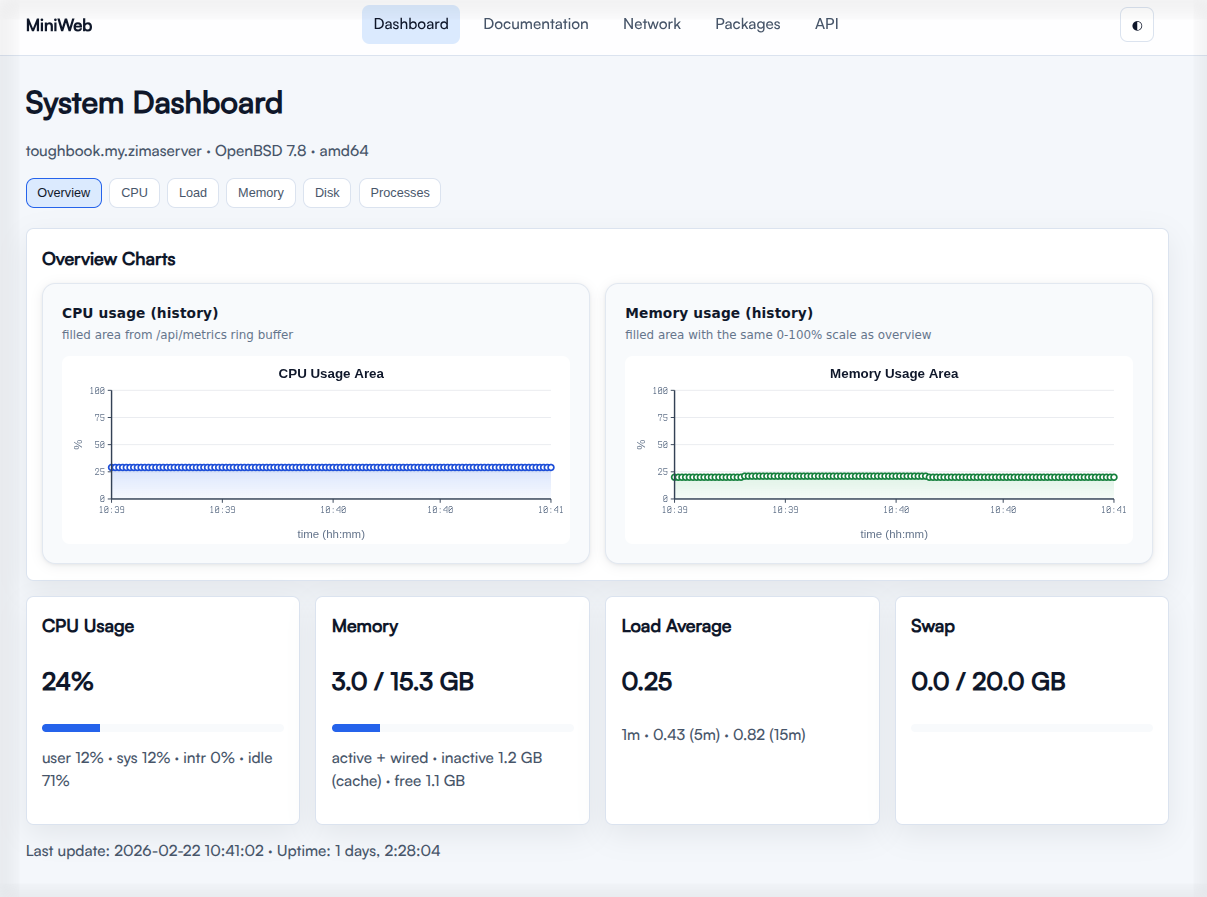
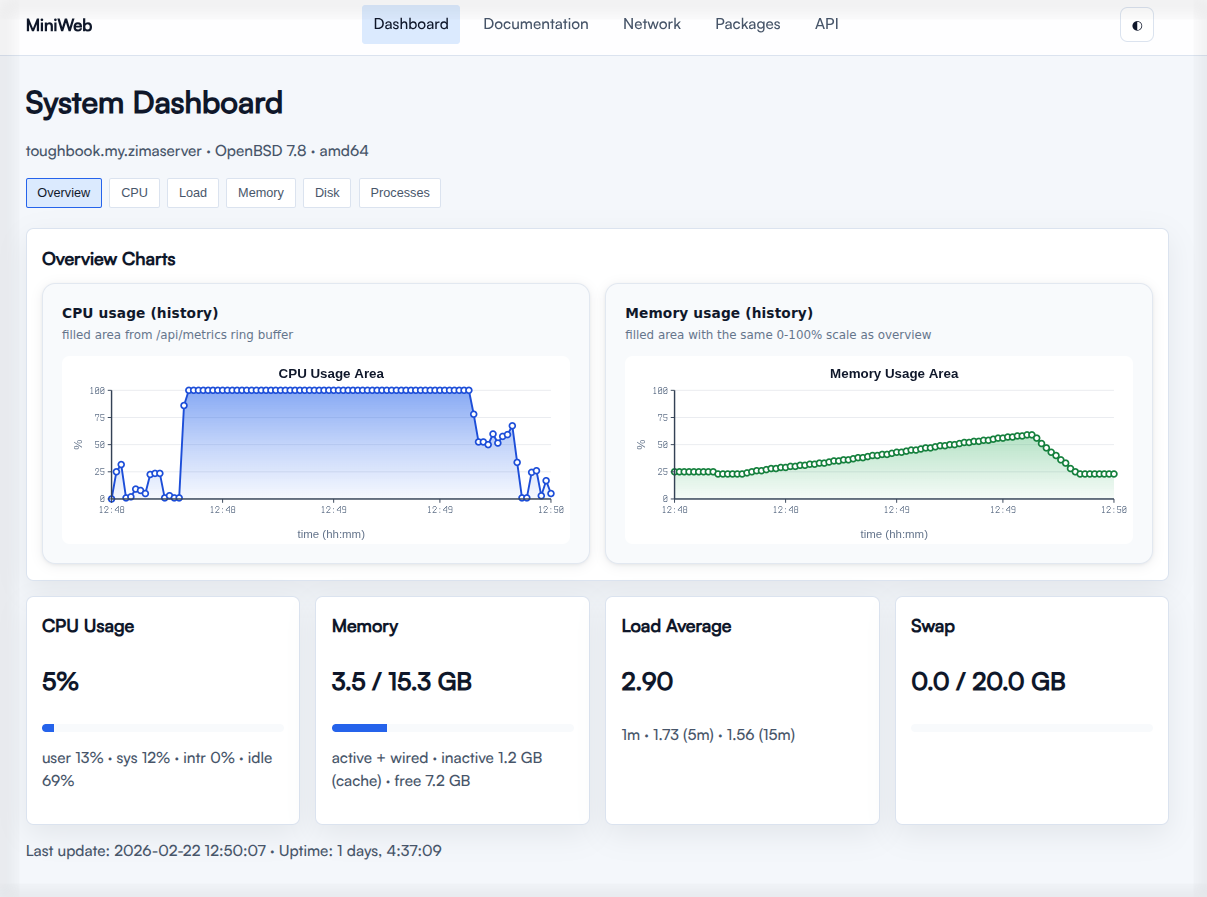
=== FE: dashboard refinement
modified:   docs/screenshot.png
	modified:   static/css/custom.css
	modified:   templates/dashboard_extra_head.html
	modified:   templates/dashboard_extra_js.html

diff --git a/static/benchmark.html b/static/benchmark.html
@@ -156,14 +156,14 @@
       <!-- ===== SUMMARY ===== -->
       <section class="panel overall-section">
         <h1>Benchmark Report</h1>
-        <p class="meta">Generated: 2026-02-22 00:34:32 &nbsp;·&nbsp; Base URL: <code>http://localhost:3000</code> &nbsp;·&nbsp; Duration: 30s &nbsp;·&nbsp; Threads: 4</p>
+        <p class="meta">Generated: 2026-02-22 12:00:41 &nbsp;·&nbsp; Base URL: <code>http://localhost:3000</code> &nbsp;·&nbsp; Duration: 15s &nbsp;·&nbsp; Threads: 4</p>
 
         <div class="benchmark-grid">
-          <article class="panel stat-card"><h3>Peak throughput</h3><p>27424.40 req/s</p></article>
-          <article class="panel stat-card"><h3>Avg throughput</h3><p>5596.4 req/s</p></article>
-          <article class="panel stat-card"><h3>Best avg latency</h3><p>0.327 ms</p></article>
-          <article class="panel stat-card"><h3>Worst max latency</h3><p>2000.000 ms</p></article>
-          <article class="panel stat-card"><h3>Grand avg latency</h3><p>251.13 ms</p></article>
+          <article class="panel stat-card"><h3>Peak throughput</h3><p>26543.16 req/s</p></article>
+          <article class="panel stat-card"><h3>Avg throughput</h3><p>7377.6 req/s</p></article>
+          <article class="panel stat-card"><h3>Best avg latency</h3><p>0.276 ms</p></article>
+          <article class="panel stat-card"><h3>Worst max latency</h3><p>1990.000 ms</p></article>
+          <article class="panel stat-card"><h3>Grand avg latency</h3><p>240.33 ms</p></article>
         </div>
 
       </section>
@@ -199,10 +199,10 @@
               </tr>
             </thead>
             <tbody>
-<tr><td>8</td><td>23571.8</td><td>0.33</td><td>20.67</td><td>232.900</td><td>709565</td><td class="http-ok">200</td><td>OK</td></tr>
-<tr><td>16</td><td>11625.8</td><td>2.97</td><td>341.10</td><td>114.880</td><td>349369</td><td class="http-ok">200</td><td>OK</td></tr>
-<tr><td>32</td><td>16030.2</td><td>1.70</td><td>67.66</td><td>158.400</td><td>481825</td><td class="http-ok">200</td><td>OK</td></tr>
-<tr><td>64</td><td>15279.4</td><td>3.50</td><td>56.19</td><td>150.980</td><td>459400</td><td class="http-ok">200</td><td>OK</td></tr>
+<tr><td>8</td><td>22837.2</td><td>0.35</td><td>26.22</td><td>225.650</td><td>344989</td><td class="http-ok">200</td><td>OK</td></tr>
+<tr><td>16</td><td>10225.0</td><td>1.46</td><td>60.92</td><td>101.040</td><td>153916</td><td class="http-ok">200</td><td>OK</td></tr>
+<tr><td>32</td><td>15347.7</td><td>1.85</td><td>95.92</td><td>151.650</td><td>231267</td><td class="http-ok">200</td><td>OK</td></tr>
+<tr><td>64</td><td>16212.3</td><td>3.28</td><td>75.65</td><td>160.190</td><td>244594</td><td class="http-ok">200</td><td>OK</td></tr>
             </tbody>
           </table>
         </div>
@@ -228,10 +228,10 @@
               </tr>
             </thead>
             <tbody>
-<tr><td>8</td><td>16009.5</td><td>0.47</td><td>20.81</td><td>89.540</td><td>481915</td><td class="http-ok">200</td><td>OK</td></tr>
-<tr><td>16</td><td>16862.8</td><td>0.88</td><td>29.70</td><td>94.310</td><td>507615</td><td class="http-ok">200</td><td>OK</td></tr>
-<tr><td>32</td><td>13136.1</td><td>2.25</td><td>26.42</td><td>73.470</td><td>394700</td><td class="http-ok">200</td><td>OK</td></tr>
-<tr><td>64</td><td>27424.4</td><td>2.15</td><td>35.65</td><td>153.380</td><td>823954</td><td class="http-ok">200</td><td>OK</td></tr>
+<tr><td>8</td><td>16873.6</td><td>0.44</td><td>10.54</td><td>94.390</td><td>254807</td><td class="http-ok">200</td><td>OK</td></tr>
+<tr><td>16</td><td>13041.7</td><td>1.13</td><td>18.30</td><td>72.950</td><td>195924</td><td class="http-ok">200</td><td>OK</td></tr>
+<tr><td>32</td><td>16188.2</td><td>1.86</td><td>31.22</td><td>90.550</td><td>243070</td><td class="http-ok">200</td><td>OK</td></tr>
+<tr><td>64</td><td>16450.5</td><td>3.58</td><td>35.21</td><td>92.020</td><td>247727</td><td class="http-ok">200</td><td>OK</td></tr>
             </tbody>
           </table>
         </div>
@@ -257,10 +257,10 @@
               </tr>
             </thead>
             <tbody>
-<tr><td>8</td><td>12105.0</td><td>0.62</td><td>17.47</td><td>17.290</td><td>364407</td><td class="http-ok">200</td><td>OK</td></tr>
-<tr><td>16</td><td>15406.6</td><td>0.96</td><td>30.10</td><td>22.010</td><td>462882</td><td class="http-ok">200</td><td>OK</td></tr>
-<tr><td>32</td><td>17009.6</td><td>1.72</td><td>19.94</td><td>24.300</td><td>510901</td><td class="http-ok">200</td><td>OK</td></tr>
-<tr><td>64</td><td>27374.3</td><td>2.16</td><td>35.75</td><td>39.100</td><td>822418</td><td class="http-ok">200</td><td>OK</td></tr>
+<tr><td>8</td><td>26384.2</td><td>0.28</td><td>9.03</td><td>37.690</td><td>398441</td><td class="http-ok">200</td><td>OK</td></tr>
+<tr><td>16</td><td>13065.1</td><td>1.13</td><td>29.64</td><td>18.660</td><td>196356</td><td class="http-ok">200</td><td>OK</td></tr>
+<tr><td>32</td><td>15859.3</td><td>1.86</td><td>25.51</td><td>22.660</td><td>238256</td><td class="http-ok">200</td><td>OK</td></tr>
+<tr><td>64</td><td>13340.2</td><td>4.49</td><td>67.91</td><td>19.060</td><td>201370</td><td class="http-ok">200</td><td>OK</td></tr>
             </tbody>
           </table>
         </div>
@@ -286,10 +286,10 @@
               </tr>
             </thead>
             <tbody>
-<tr><td>8</td><td>10788.6</td><td>0.70</td><td>21.02</td><td>4.550</td><td>324764</td><td class="http-ok">200</td><td>OK</td></tr>
-<tr><td>16</td><td>12663.1</td><td>1.21</td><td>83.27</td><td>5.340</td><td>380234</td><td class="http-ok">200</td><td>OK</td></tr>
-<tr><td>32</td><td>14743.6</td><td>2.03</td><td>36.05</td><td>6.210</td><td>442950</td><td class="http-ok">200</td><td>OK</td></tr>
-<tr><td>64</td><td>17774.0</td><td>3.27</td><td>38.60</td><td>7.490</td><td>535025</td><td class="http-ok">200</td><td>OK</td></tr>
+<tr><td>8</td><td>26543.2</td><td>0.28</td><td>6.91</td><td>11.190</td><td>400785</td><td class="http-ok">200</td><td>OK</td></tr>
+<tr><td>16</td><td>13004.6</td><td>1.13</td><td>15.96</td><td>5.480</td><td>195152</td><td class="http-ok">200</td><td>OK</td></tr>
+<tr><td>32</td><td>17092.5</td><td>1.72</td><td>20.90</td><td>7.200</td><td>256785</td><td class="http-ok">200</td><td>OK</td></tr>
+<tr><td>64</td><td>18586.4</td><td>3.12</td><td>46.18</td><td>7.830</td><td>280130</td><td class="http-ok">200</td><td>OK</td></tr>
             </tbody>
           </table>
         </div>
@@ -315,10 +315,10 @@
               </tr>
             </thead>
             <tbody>
-<tr><td>8</td><td>5085.7</td><td>1.55</td><td>21.55</td><td>87.690</td><td>152911</td><td class="http-ok">200</td><td>OK</td></tr>
-<tr><td>16</td><td>5915.4</td><td>2.65</td><td>28.32</td><td>102.000</td><td>177872</td><td class="http-ok">200</td><td>OK</td></tr>
-<tr><td>32</td><td>6052.0</td><td>5.20</td><td>33.11</td><td>104.350</td><td>182118</td><td class="http-ok">200</td><td>OK</td></tr>
-<tr><td>64</td><td>4738.5</td><td>13.26</td><td>62.22</td><td>81.700</td><td>142600</td><td class="http-ok">200</td><td>OK</td></tr>
+<tr><td>8</td><td>4533.0</td><td>1.73</td><td>17.08</td><td>91.520</td><td>68126</td><td class="http-ok">200</td><td>OK</td></tr>
+<tr><td>16</td><td>5387.6</td><td>2.93</td><td>24.46</td><td>108.770</td><td>81135</td><td class="http-ok">200</td><td>OK</td></tr>
+<tr><td>32</td><td>5774.5</td><td>5.47</td><td>66.47</td><td>116.590</td><td>87118</td><td class="http-ok">200</td><td>OK</td></tr>
+<tr><td>64</td><td>9512.9</td><td>6.58</td><td>43.96</td><td>192.080</td><td>143122</td><td class="http-ok">200</td><td>OK</td></tr>
             </tbody>
           </table>
         </div>
@@ -344,10 +344,10 @@
               </tr>
             </thead>
             <tbody>
-<tr><td>8</td><td>9910.8</td><td>0.81</td><td>17.36</td><td>145.480</td><td>298339</td><td class="http-ok">200</td><td>OK</td></tr>
-<tr><td>16</td><td>4418.7</td><td>3.61</td><td>27.86</td><td>64.860</td><td>133013</td><td class="http-ok">200</td><td>OK</td></tr>
-<tr><td>32</td><td>5217.6</td><td>6.12</td><td>34.69</td><td>76.590</td><td>157058</td><td class="http-ok">200</td><td>OK</td></tr>
-<tr><td>64</td><td>5930.8</td><td>10.75</td><td>44.58</td><td>87.050</td><td>178445</td><td class="http-ok">200</td><td>OK</td></tr>
+<tr><td>8</td><td>4410.2</td><td>1.83</td><td>35.70</td><td>64.740</td><td>66307</td><td class="http-ok">200</td><td>OK</td></tr>
+<tr><td>16</td><td>9735.8</td><td>1.63</td><td>24.38</td><td>142.910</td><td>147013</td><td class="http-ok">200</td><td>OK</td></tr>
+<tr><td>32</td><td>4232.6</td><td>7.49</td><td>24.75</td><td>62.130</td><td>63767</td><td class="http-ok">200</td><td>OK</td></tr>
+<tr><td>64</td><td>4501.0</td><td>14.12</td><td>35.83</td><td>66.060</td><td>67927</td><td class="http-ok">200</td><td>OK</td></tr>
             </tbody>
           </table>
         </div>
@@ -373,10 +373,10 @@
               </tr>
             </thead>
             <tbody>
-<tr><td>8</td><td>9842.0</td><td>0.81</td><td>17.04</td><td>125.940</td><td>295319</td><td class="http-ok">200</td><td>OK</td></tr>
-<tr><td>16</td><td>4515.5</td><td>3.54</td><td>26.98</td><td>57.780</td><td>135849</td><td class="http-ok">200</td><td>OK</td></tr>
-<tr><td>32</td><td>5335.5</td><td>5.99</td><td>28.87</td><td>68.270</td><td>160517</td><td class="http-ok">200</td><td>OK</td></tr>
-<tr><td>64</td><td>5780.5</td><td>11.02</td><td>42.01</td><td>73.960</td><td>173818</td><td class="http-ok">200</td><td>OK</td></tr>
+<tr><td>8</td><td>5599.4</td><td>1.40</td><td>10.74</td><td>71.900</td><td>84130</td><td class="http-ok">200</td><td>OK</td></tr>
+<tr><td>16</td><td>5725.5</td><td>2.77</td><td>23.90</td><td>73.530</td><td>86116</td><td class="http-ok">200</td><td>OK</td></tr>
+<tr><td>32</td><td>5753.9</td><td>5.50</td><td>22.00</td><td>73.900</td><td>86595</td><td class="http-ok">200</td><td>OK</td></tr>
+<tr><td>64</td><td>9866.0</td><td>6.47</td><td>59.57</td><td>126.710</td><td>148291</td><td class="http-ok">200</td><td>OK</td></tr>
             </tbody>
           </table>
         </div>
@@ -402,10 +402,10 @@
               </tr>
             </thead>
             <tbody>
-<tr><td>8</td><td>6215.2</td><td>1.29</td><td>17.99</td><td>85.610</td><td>186711</td><td class="http-ok">200</td><td>OK</td></tr>
-<tr><td>16</td><td>6210.9</td><td>2.58</td><td>35.21</td><td>85.550</td><td>186631</td><td class="http-ok">200</td><td>OK</td></tr>
-<tr><td>32</td><td>6038.3</td><td>5.28</td><td>27.07</td><td>83.170</td><td>181521</td><td class="http-ok">200</td><td>OK</td></tr>
-<tr><td>64</td><td>9894.9</td><td>6.46</td><td>34.56</td><td>136.290</td><td>297215</td><td class="http-ok">200</td><td>OK</td></tr>
+<tr><td>8</td><td>4246.4</td><td>1.86</td><td>19.77</td><td>58.490</td><td>63819</td><td class="http-ok">200</td><td>OK</td></tr>
+<tr><td>16</td><td>5429.1</td><td>2.92</td><td>16.92</td><td>74.780</td><td>81613</td><td class="http-ok">200</td><td>OK</td></tr>
+<tr><td>32</td><td>5815.3</td><td>5.46</td><td>25.84</td><td>80.100</td><td>87571</td><td class="http-ok">200</td><td>OK</td></tr>
+<tr><td>64</td><td>5505.1</td><td>11.56</td><td>48.28</td><td>75.820</td><td>83001</td><td class="http-ok">200</td><td>OK</td></tr>
             </tbody>
           </table>
         </div>
@@ -431,10 +431,10 @@
               </tr>
             </thead>
             <tbody>
-<tr><td>8</td><td>4677.9</td><td>1.70</td><td>23.26</td><td>35.950</td><td>140601</td><td class="http-ok">200</td><td>OK</td></tr>
-<tr><td>16</td><td>10275.9</td><td>1.55</td><td>20.19</td><td>78.980</td><td>309351</td><td class="http-ok">200</td><td>OK</td></tr>
-<tr><td>32</td><td>4538.6</td><td>7.02</td><td>40.86</td><td>34.880</td><td>136618</td><td class="http-ok">200</td><td>OK</td></tr>
-<tr><td>64</td><td>5592.8</td><td>11.40</td><td>51.22</td><td>42.980</td><td>168345</td><td class="http-ok">200</td><td>OK</td></tr>
+<tr><td>8</td><td>6154.4</td><td>1.29</td><td>17.48</td><td>47.300</td><td>92464</td><td class="http-ok">200</td><td>OK</td></tr>
+<tr><td>16</td><td>6151.4</td><td>2.58</td><td>14.85</td><td>47.280</td><td>92471</td><td class="http-ok">200</td><td>OK</td></tr>
+<tr><td>32</td><td>10259.5</td><td>3.10</td><td>30.69</td><td>78.850</td><td>155008</td><td class="http-ok">200</td><td>OK</td></tr>
+<tr><td>64</td><td>4530.2</td><td>14.06</td><td>45.28</td><td>34.820</td><td>68242</td><td class="http-ok">200</td><td>OK</td></tr>
             </tbody>
           </table>
         </div>
@@ -460,10 +460,10 @@
               </tr>
             </thead>
             <tbody>
-<tr><td>8</td><td>91.6</td><td>87.16</td><td>185.16</td><td>0.338</td><td>2757</td><td class="http-ok">200</td><td>OK</td></tr>
-<tr><td>16</td><td>91.0</td><td>175.00</td><td>250.88</td><td>0.336</td><td>2739</td><td class="http-ok">200</td><td>OK</td></tr>
-<tr><td>32</td><td>91.1</td><td>348.44</td><td>463.89</td><td>0.336</td><td>2743</td><td class="http-ok">200</td><td>OK</td></tr>
-<tr><td>64</td><td>91.0</td><td>693.73</td><td>803.66</td><td>0.336</td><td>2738</td><td class="http-ok">200</td><td>OK</td></tr>
+<tr><td>8</td><td>598.3</td><td>13.37</td><td>44.68</td><td>10.580</td><td>9024</td><td class="http-ok">200</td><td>OK</td></tr>
+<tr><td>16</td><td>638.8</td><td>25.01</td><td>73.50</td><td>11.290</td><td>9636</td><td class="http-ok">200</td><td>OK</td></tr>
+<tr><td>32</td><td>692.4</td><td>46.05</td><td>101.78</td><td>12.230</td><td>10445</td><td class="http-ok">200</td><td>OK</td></tr>
+<tr><td>64</td><td>595.9</td><td>106.70</td><td>182.75</td><td>10.520</td><td>8975</td><td class="http-ok">200</td><td>OK</td></tr>
             </tbody>
           </table>
         </div>
@@ -489,10 +489,10 @@
               </tr>
             </thead>
             <tbody>
-<tr><td>8</td><td>1549.2</td><td>5.15</td><td>27.21</td><td>6.140</td><td>46601</td><td class="http-ok">200</td><td>OK</td></tr>
-<tr><td>16</td><td>1850.5</td><td>8.64</td><td>38.28</td><td>7.370</td><td>55706</td><td class="http-ok">200</td><td>OK</td></tr>
-<tr><td>32</td><td>1982.0</td><td>16.12</td><td>49.64</td><td>7.870</td><td>59630</td><td class="http-ok">200</td><td>OK</td></tr>
-<tr><td>64</td><td>2893.8</td><td>22.10</td><td>57.85</td><td>11.520</td><td>87077</td><td class="http-ok">200</td><td>OK</td></tr>
+<tr><td>8</td><td>1547.2</td><td>5.17</td><td>31.03</td><td>6.580</td><td>23288</td><td class="http-ok">200</td><td>OK</td></tr>
+<tr><td>16</td><td>1634.5</td><td>9.78</td><td>32.18</td><td>6.950</td><td>24650</td><td class="http-ok">200</td><td>OK</td></tr>
+<tr><td>32</td><td>1243.0</td><td>25.65</td><td>53.91</td><td>5.260</td><td>18730</td><td class="http-ok">200</td><td>OK</td></tr>
+<tr><td>64</td><td>1708.5</td><td>37.31</td><td>71.36</td><td>7.080</td><td>25786</td><td class="http-ok">200</td><td>OK</td></tr>
             </tbody>
           </table>
         </div>
@@ -518,10 +518,10 @@
               </tr>
             </thead>
             <tbody>
-<tr><td>8</td><td>6.2</td><td>1270.00</td><td>1580.00</td><td>0.003</td><td>187</td><td class="http-ok">200</td><td>OK</td></tr>
-<tr><td>16</td><td>6.2</td><td>1190.00</td><td>1570.00</td><td>0.003</td><td>188</td><td class="http-ok">200</td><td>OK</td></tr>
-<tr><td>32</td><td>6.9</td><td>1160.00</td><td>1900.00</td><td>0.004</td><td>208</td><td class="http-ok">000000</td><td>OK</td></tr>
-<tr><td>64</td><td>7.3</td><td>1140.00</td><td>1980.00</td><td>0.004</td><td>219</td><td class="http-ok">000000</td><td>OK</td></tr>
+<tr><td>8</td><td>7.4</td><td>1040.00</td><td>1350.00</td><td>0.004</td><td>112</td><td class="http-ok">200</td><td>OK</td></tr>
+<tr><td>16</td><td>11.2</td><td>1370.00</td><td>1590.00</td><td>0.006</td><td>168</td><td class="http-ok">200</td><td>OK</td></tr>
+<tr><td>32</td><td>5.3</td><td>1220.00</td><td>1640.00</td><td>0.003</td><td>80</td><td class="http-ok">000000</td><td>OK</td></tr>
+<tr><td>64</td><td>5.8</td><td>1230.00</td><td>1900.00</td><td>0.003</td><td>88</td><td class="http-ok">000000</td><td>OK</td></tr>
             </tbody>
           </table>
         </div>
@@ -547,10 +547,10 @@
               </tr>
             </thead>
             <tbody>
-<tr><td>8</td><td>14.2</td><td>559.61</td><td>747.96</td><td>0.016</td><td>427</td><td class="http-ok">200</td><td>OK</td></tr>
-<tr><td>16</td><td>15.4</td><td>1010.00</td><td>1290.00</td><td>0.017</td><td>465</td><td class="http-ok">200</td><td>OK</td></tr>
-<tr><td>32</td><td>23.9</td><td>1310.00</td><td>1410.00</td><td>0.026</td><td>720</td><td class="http-ok">200</td><td>OK</td></tr>
-<tr><td>64</td><td>11.3</td><td>1070.00</td><td>1780.00</td><td>0.012</td><td>339</td><td class="http-ok">000000</td><td>OK</td></tr>
+<tr><td>8</td><td>13.4</td><td>584.21</td><td>802.48</td><td>0.015</td><td>203</td><td class="http-ok">200</td><td>OK</td></tr>
+<tr><td>16</td><td>13.3</td><td>1150.00</td><td>1560.00</td><td>0.015</td><td>200</td><td class="http-ok">200</td><td>OK</td></tr>
+<tr><td>32</td><td>14.1</td><td>1160.00</td><td>1980.00</td><td>0.016</td><td>213</td><td class="http-ok">200</td><td>OK</td></tr>
+<tr><td>64</td><td>13.5</td><td>1090.00</td><td>1950.00</td><td>0.015</td><td>204</td><td class="http-ok">000000</td><td>OK</td></tr>
             </tbody>
           </table>
         </div>
@@ -576,10 +576,10 @@
               </tr>
             </thead>
             <tbody>
-<tr><td>8</td><td>8.1</td><td>967.29</td><td>1810.00</td><td>0.190</td><td>244</td><td class="http-ok">200</td><td>OK</td></tr>
-<tr><td>16</td><td>8.8</td><td>1770.00</td><td>2000.00</td><td>0.205</td><td>264</td><td class="http-ok">200</td><td>OK</td></tr>
-<tr><td>32</td><td>9.8</td><td>1440.00</td><td>1920.00</td><td>0.230</td><td>296</td><td class="http-ok">000000</td><td>OK</td></tr>
-<tr><td>64</td><td>8.6</td><td>892.17</td><td>1620.00</td><td>0.200</td><td>258</td><td class="http-ok">000000</td><td>OK</td></tr>
+<tr><td>8</td><td>8.2</td><td>931.47</td><td>1170.00</td><td>0.192</td><td>124</td><td class="http-ok">200</td><td>OK</td></tr>
+<tr><td>16</td><td>9.0</td><td>1000.00</td><td>1890.00</td><td>0.210</td><td>136</td><td class="http-ok">200</td><td>OK</td></tr>
+<tr><td>32</td><td>9.3</td><td>1430.00</td><td>1990.00</td><td>0.217</td><td>140</td><td class="http-ok">000000</td><td>OK</td></tr>
+<tr><td>64</td><td>9.0</td><td>1110.00</td><td>1950.00</td><td>0.211</td><td>136</td><td class="http-ok">000000</td><td>OK</td></tr>
             </tbody>
           </table>
         </div>
@@ -605,10 +605,10 @@
               </tr>
             </thead>
             <tbody>
-<tr><td>8</td><td>23.5</td><td>338.09</td><td>496.19</td><td>0.006</td><td>707</td><td class="http-ok">200</td><td>OK</td></tr>
-<tr><td>16</td><td>26.8</td><td>589.36</td><td>730.74</td><td>0.007</td><td>807</td><td class="http-ok">200</td><td>OK</td></tr>
-<tr><td>32</td><td>42.4</td><td>744.61</td><td>804.39</td><td>0.010</td><td>1274</td><td class="http-ok">200</td><td>OK</td></tr>
-<tr><td>64</td><td>19.7</td><td>1110.00</td><td>2000.00</td><td>0.005</td><td>594</td><td class="http-ok">200</td><td>OK</td></tr>
+<tr><td>8</td><td>23.4</td><td>337.30</td><td>572.48</td><td>0.006</td><td>354</td><td class="http-ok">200</td><td>OK</td></tr>
+<tr><td>16</td><td>42.5</td><td>372.42</td><td>406.30</td><td>0.010</td><td>640</td><td class="http-ok">200</td><td>OK</td></tr>
+<tr><td>32</td><td>18.7</td><td>1590.00</td><td>1770.00</td><td>0.005</td><td>283</td><td class="http-ok">200</td><td>OK</td></tr>
+<tr><td>64</td><td>26.1</td><td>1250.00</td><td>1980.00</td><td>0.006</td><td>394</td><td class="http-ok">200</td><td>OK</td></tr>
             </tbody>
           </table>
         </div>
@@ -634,10 +634,10 @@
               </tr>
             </thead>
             <tbody>
-<tr><td>8</td><td>2.9</td><td>2.80</td><td>38.72</td><td>0.001</td><td>88</td><td class="http-ok">200</td><td>OK</td></tr>
-<tr><td>16</td><td>3.3</td><td>1.44</td><td>21.57</td><td>0.001</td><td>99</td><td class="http-ok">200</td><td>OK</td></tr>
-<tr><td>32</td><td>3.1</td><td>1.95</td><td>26.95</td><td>0.001</td><td>94</td><td class="http-ok">200</td><td>OK</td></tr>
-<tr><td>64</td><td>5.2</td><td>2.17</td><td>27.64</td><td>0.002</td><td>157</td><td class="http-ok">200</td><td>OK</td></tr>
+<tr><td>8</td><td>16026.6</td><td>0.71</td><td>64.51</td><td>336.820</td><td>240505</td><td class="http-ok">200</td><td>OK</td></tr>
+<tr><td>16</td><td>7306.7</td><td>2.31</td><td>54.09</td><td>152.950</td><td>110010</td><td class="http-ok">200</td><td>OK</td></tr>
+<tr><td>32</td><td>16545.8</td><td>1.92</td><td>36.74</td><td>345.700</td><td>248556</td><td class="http-ok">200</td><td>OK</td></tr>
+<tr><td>64</td><td>6974.7</td><td>8.23</td><td>61.48</td><td>145.120</td><td>105154</td><td class="http-ok">200</td><td>OK</td></tr>
             </tbody>
           </table>
         </div>
@@ -663,10 +663,10 @@
               </tr>
             </thead>
             <tbody>
-<tr><td>8</td><td>0.6</td><td>2.73</td><td>23.12</td><td>0.000</td><td>18</td><td class="http-ok">200</td><td>OK</td></tr>
-<tr><td>16</td><td>1.9</td><td>2.47</td><td>27.78</td><td>0.001</td><td>57</td><td class="http-ok">200</td><td>OK</td></tr>
-<tr><td>32</td><td>3.0</td><td>2.36</td><td>25.64</td><td>0.001</td><td>89</td><td class="http-ok">200</td><td>OK</td></tr>
-<tr><td>64</td><td>5.1</td><td>3.20</td><td>29.31</td><td>0.002</td><td>154</td><td class="http-ok">200</td><td>OK</td></tr>
+<tr><td>8</td><td>7316.5</td><td>1.51</td><td>66.27</td><td>153.660</td><td>109930</td><td class="http-ok">200</td><td>OK</td></tr>
+<tr><td>16</td><td>9610.9</td><td>1.75</td><td>48.32</td><td>200.890</td><td>144441</td><td class="http-ok">200</td><td>OK</td></tr>
+<tr><td>32</td><td>16471.0</td><td>1.93</td><td>58.76</td><td>343.690</td><td>248665</td><td class="http-ok">200</td><td>OK</td></tr>
+<tr><td>64</td><td>6749.4</td><td>8.56</td><td>136.80</td><td>140.260</td><td>101764</td><td class="http-ok">200</td><td>OK</td></tr>
             </tbody>
           </table>
         </div>
@@ -692,10 +692,10 @@
               </tr>
             </thead>
             <tbody>
-<tr><td>8</td><td>0.6</td><td>4.36</td><td>27.99</td><td>0.000</td><td>19</td><td class="http-ok">200</td><td>OK</td></tr>
-<tr><td>16</td><td>2.9</td><td>2.25</td><td>28.99</td><td>0.001</td><td>86</td><td class="http-ok">200</td><td>OK</td></tr>
-<tr><td>32</td><td>8.5</td><td>2.10</td><td>38.24</td><td>0.003</td><td>256</td><td class="http-ok">200</td><td>OK</td></tr>
-<tr><td>64</td><td>30.6</td><td>6.89</td><td>807.12</td><td>0.012</td><td>919</td><td class="http-ok">200</td><td>OK</td></tr>
+<tr><td>8</td><td>7550.0</td><td>1.40</td><td>84.60</td><td>75.460</td><td>113417</td><td class="http-ok">200</td><td>OK</td></tr>
+<tr><td>16</td><td>9464.3</td><td>1.95</td><td>84.31</td><td>94.250</td><td>142418</td><td class="http-ok">200</td><td>OK</td></tr>
+<tr><td>32</td><td>16894.3</td><td>1.85</td><td>39.72</td><td>167.390</td><td>254058</td><td class="http-ok">200</td><td>OK</td></tr>
+<tr><td>64</td><td>7214.5</td><td>8.37</td><td>73.92</td><td>71.350</td><td>108429</td><td class="http-ok">200</td><td>OK</td></tr>
             </tbody>
           </table>
         </div>

diff --git a/templates/dashboard_extra_js.html b/templates/dashboard_extra_js.html
@@ -167,14 +167,19 @@
       const memInUse = (m.active_mb || 0) + (m.wired_mb || 0);
       const memTotal = m.total_mb || 1;
       const cpu = latest.cpu || null;
-      const cpuUsed = cpu ? (cpu.used_pct ?? 0) : null;
       const memUsedPct = pct(memInUse, memTotal);
       const swapUsedPct = pct(swap.used_mb || 0, swap.total_mb || 1);
 
+      // Use the last point from the history ring buffer as the canonical CPU value
+      // so the progress bar always matches what the chart plots.
+      const history = latest?.history || [];
+      const lastSample = history.length ? history[history.length - 1] : null;
+      const cpuUsed = lastSample ? (lastSample.cpu ?? 0) : (cpu ? (cpu.used_pct ?? 0) : null);
+
       if (!overviewMounted || !document.getElementById('cpuOverviewChart')) mountOverview();
 
-      document.getElementById('overviewCpuValue').textContent = cpu ? `${cpuUsed}%` : '-';
-      document.getElementById('overviewCpuBar').style.width = `${cpu ? cpuUsed : 0}%`;
+      document.getElementById('overviewCpuValue').textContent = cpuUsed !== null ? `${cpuUsed}%` : '-';
+      document.getElementById('overviewCpuBar').style.width = `${cpuUsed ?? 0}%`;
       document.getElementById('overviewCpuMeta').textContent = cpu
         ? `user ${cpu.user_pct}% · sys ${cpu.system_pct}% · intr ${cpu.interrupt_pct}% · idle ${cpu.idle_pct}%`
         : 'CPU data unavailable';

diff --git a/templates/dashboard_extra_head.html b/templates/dashboard_extra_head.html
@@ -16,7 +16,7 @@
       border: 1px solid var(--border);
       background: var(--surface);
       color: var(--text-muted);
-      border-radius: 0.55rem;
+      border-radius: 0.15rem;
       padding: 0.45rem 0.7rem;
       cursor: pointer;
       white-space: nowrap;

diff --git a/static/css/custom.css b/static/css/custom.css
@@ -92,7 +92,7 @@ body {
   color: var(--text-muted);
   text-decoration: none;
   padding: 0.5rem 0.75rem;
-  border-radius: 0.5rem;
+  border-radius: 0.20rem;
 }
 
 .nav-link:hover,
